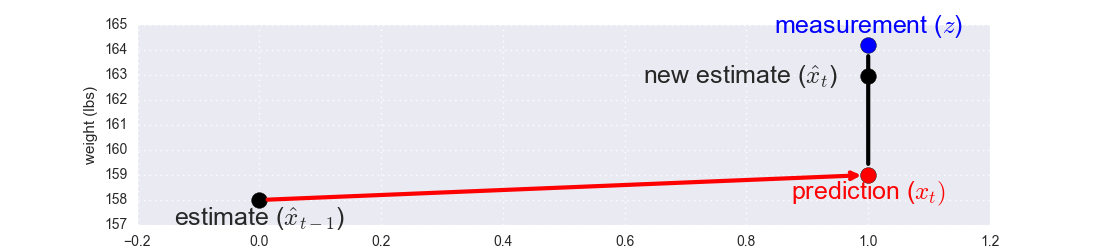
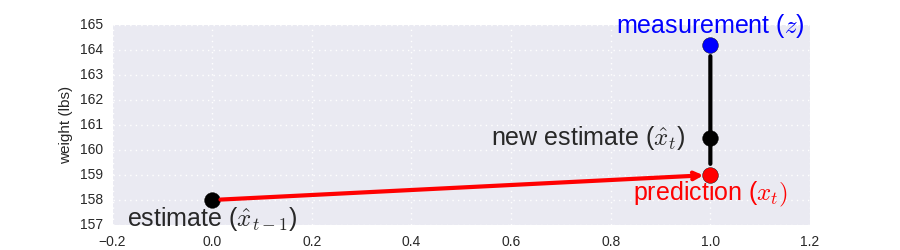
made gh_estimate3 consistent with text
wording change, data is below chart

added a colon

added a hyphen to list-like

diff --git a/code/book_plots.py b/code/book_plots.py
@@ -236,7 +236,7 @@ def plot_estimate_chart_3():
                     arrowprops=dict(arrowstyle='-',
                                     ec='k', lw=3, shrinkA=8, shrinkB=8))
 
-        est_y = ((164.2-158)*.8 + 158)
+        est_y = (158 + .4*(164.2-158))
         plt.scatter ([0,1], [158.0,est_y], c='k',s=128)
         plt.scatter ([1], [164.2], c='b',s=128)
         plt.scatter ([1], [159], c='r', s=128)
